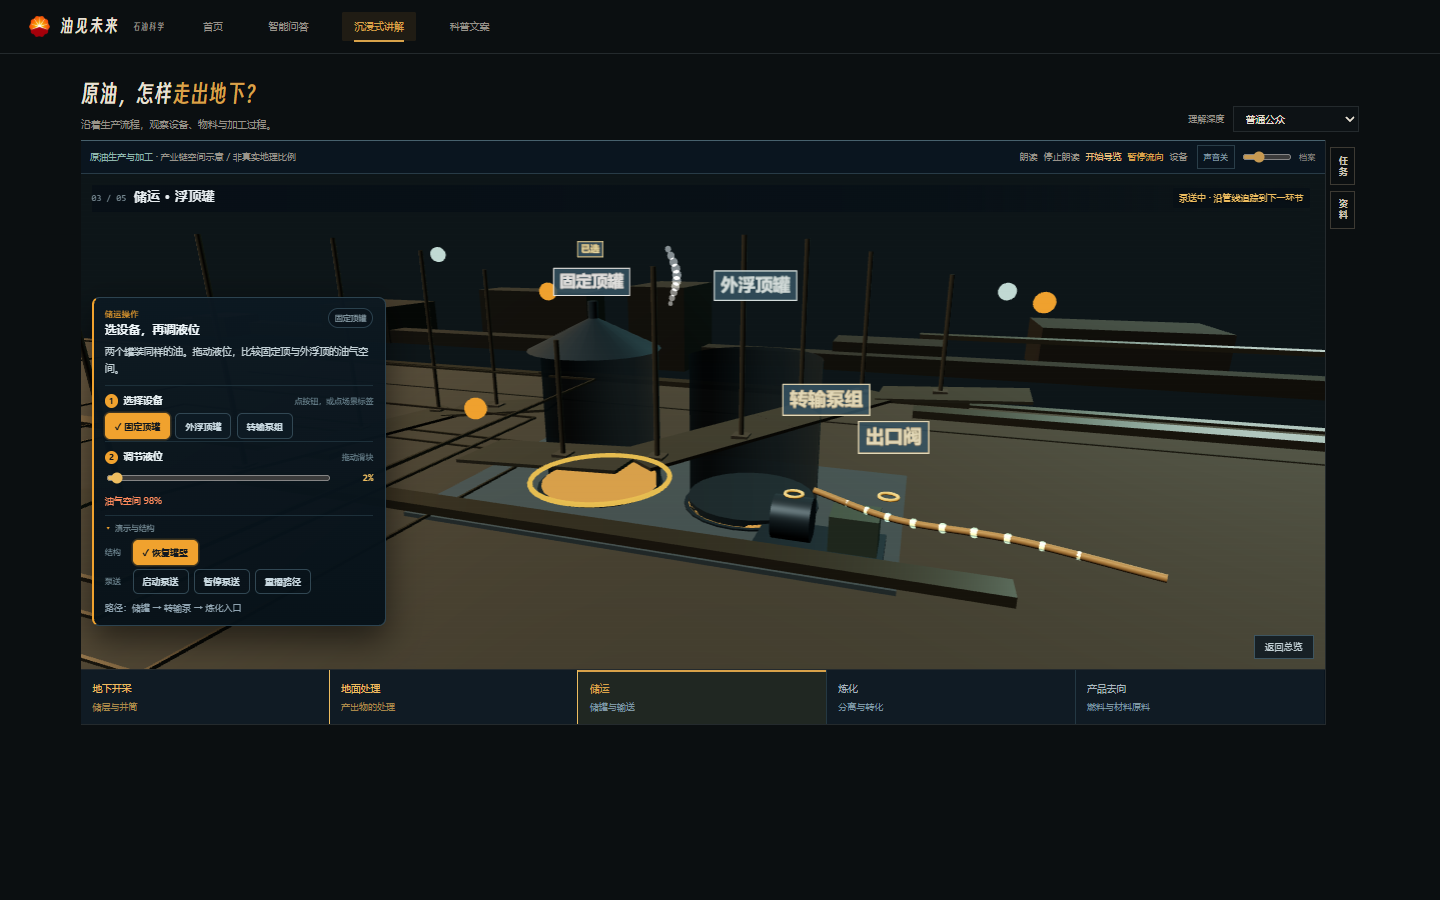
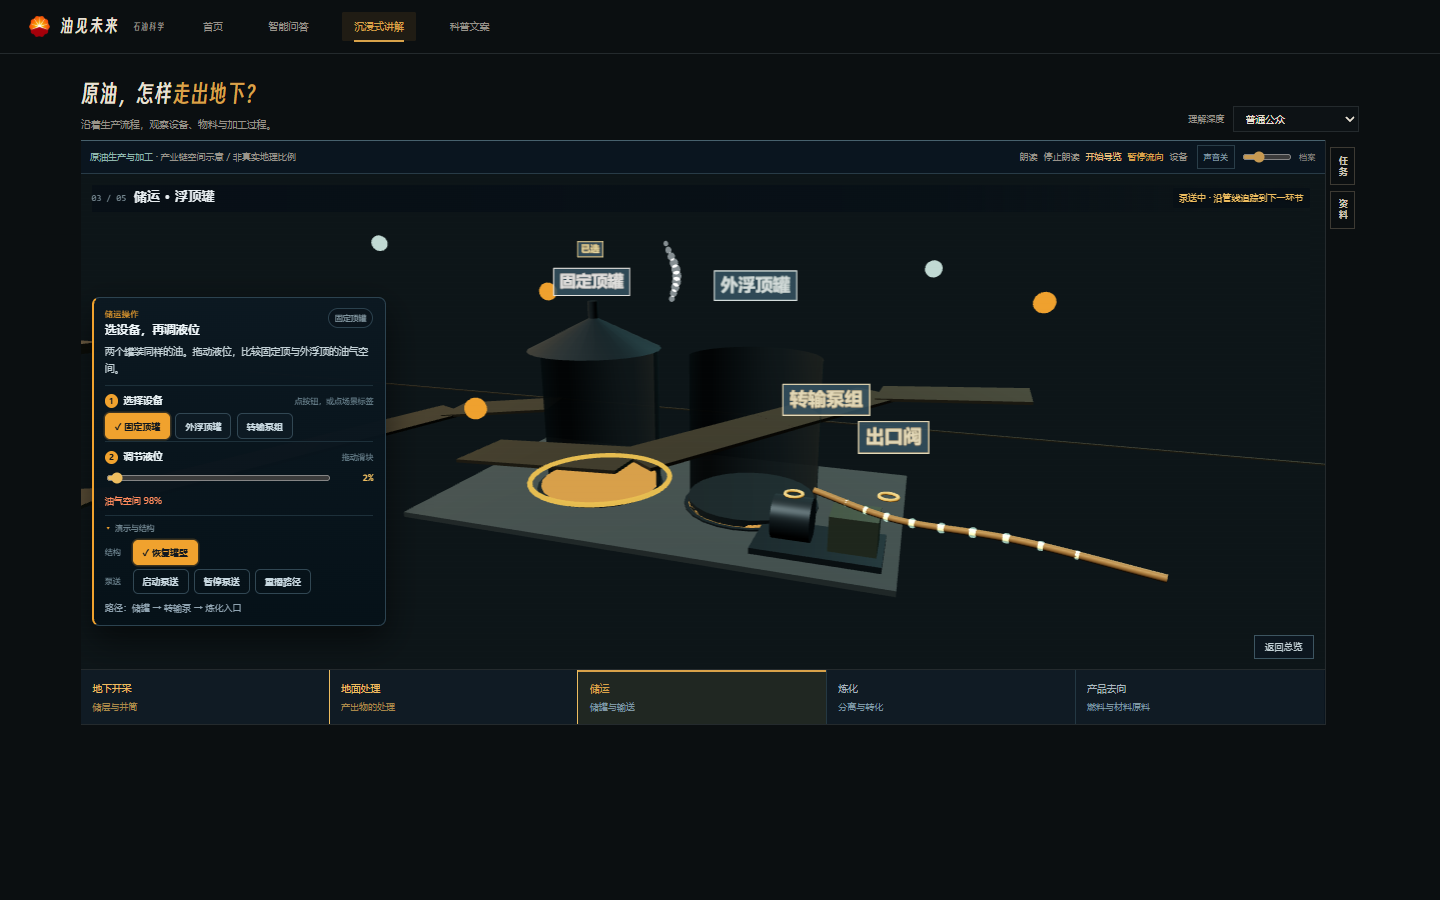
fix: truly hide storage stage wall and deck

diff --git a/web/levels/l3.js b/web/levels/l3.js
@@ -401,7 +401,7 @@
       window.__stage.baseScene.traverse(function (o) {
         if (!o.isMesh || !o.material || !o.material.color) return;
         const c = o.material.color.getHexString();
-        if (c !== '4a4235' && c !== '6b5a3a' && c !== '1e1e18') return;
+        if (c !== '4a4235' && c !== '6b5a3a' && c !== '1e1e18' && c !== '14140f' && c !== '3a3830' && c !== '2a2822' && c !== '33312a') return;
         if (!o.geometry) return;
         o.geometry.computeBoundingBox();
         const b = o.geometry.boundingBox;
@@ -412,7 +412,9 @@
         const darkSlab = c === '3a3830' || c === '2a2822' || c === '33312a';
         /* 储运展台的大幅侧墙/围板，顶边会横穿罐体；只在本关隐藏。 */
         const stageWall = c === '14140f' && sx > 70 && sz > 6;
-        if (largeTerrain || (slab && darkSlab) || stageWall) occluderMeshes.push(o);
+        /* 储运区上方的展台地板：横跨罐区，遮住罐体中下部。 */
+        const stageDeck = c === '2a2822' && sx > 8 && sz > 7 && b.min.y > 1.2 && b.max.y < 3.2;
+        if (largeTerrain || (slab && darkSlab) || stageWall || stageDeck) occluderMeshes.push(o);
       });
     }
     /* 有些台板/走道是合并后的通用材质，颜色不可靠；按“横穿罐区的薄长板”再兜一层。 */

diff --git a/web/sandbox.html b/web/sandbox.html
@@ -400,7 +400,7 @@ body.journey-tour.journey-paused .lvl-entries{display:none!important}
 <script src="levels/entry.js?v=v43"></script>
 <script src="levels/l1.js?v=v78"></script>
 <script src="levels/l2.js?v=v58"></script>
-<script src="levels/l3.js?v=v66"></script>
+<script src="levels/l3.js?v=v68"></script>
 <script src="levels/l4.js?v=v65"></script>
 <script src="levels/l5.js?v=v20"></script>
 <script src="ai-actions.js?v=1"></script>

diff --git a/docs/phase-reports/phase-08-handoff.md b/docs/phase-reports/phase-08-handoff.md
@@ -371,3 +371,5 @@ phase08-02b-action-suggestion.png
 - 储运：进入本关时额外隐藏横穿罐体中段的薄台板/走道，避免罐体被遮挡；退出恢复。
 
 - 储运：展台侧墙/走道在进入关卡时隐藏，罐体前方不再有横穿遮挡；退出恢复。
+
+- 储运：遮挡扫描材质白名单补齐 `14140f/2a2822`，展台侧墙与地板在进关时真正隐藏。

diff --git a/docs/phase-reports/evidence/phase-08/README.md b/docs/phase-reports/evidence/phase-08/README.md
@@ -58,3 +58,5 @@ CDP_PORT=4344 BASE_URL=http://127.0.0.1:8796 node tools/phase08-verify.cjs
 - `l3-no-slab.png`：储运罐体不再被台板横穿。
 
 - `l3-no-walkway-final.png`：储运关内走道/侧墙隐藏后的罐体。
+
+- `l3-no-walkway-final3.png`：展台侧墙/地板隐藏后的储运罐体。

diff --git a/CHANGELOG.md b/CHANGELOG.md
@@ -254,3 +254,5 @@
 - 储运：隐藏横穿罐体中段的台板/走道，罐体不再被铁板遮挡。
 
 - 储运：进入关卡时隐藏横穿罐区的展台侧墙/走道，退出恢复。
+
+- 储运：修正遮挡扫描材质白名单，进入关卡时真正隐藏横穿罐区的展台侧墙与地板。
